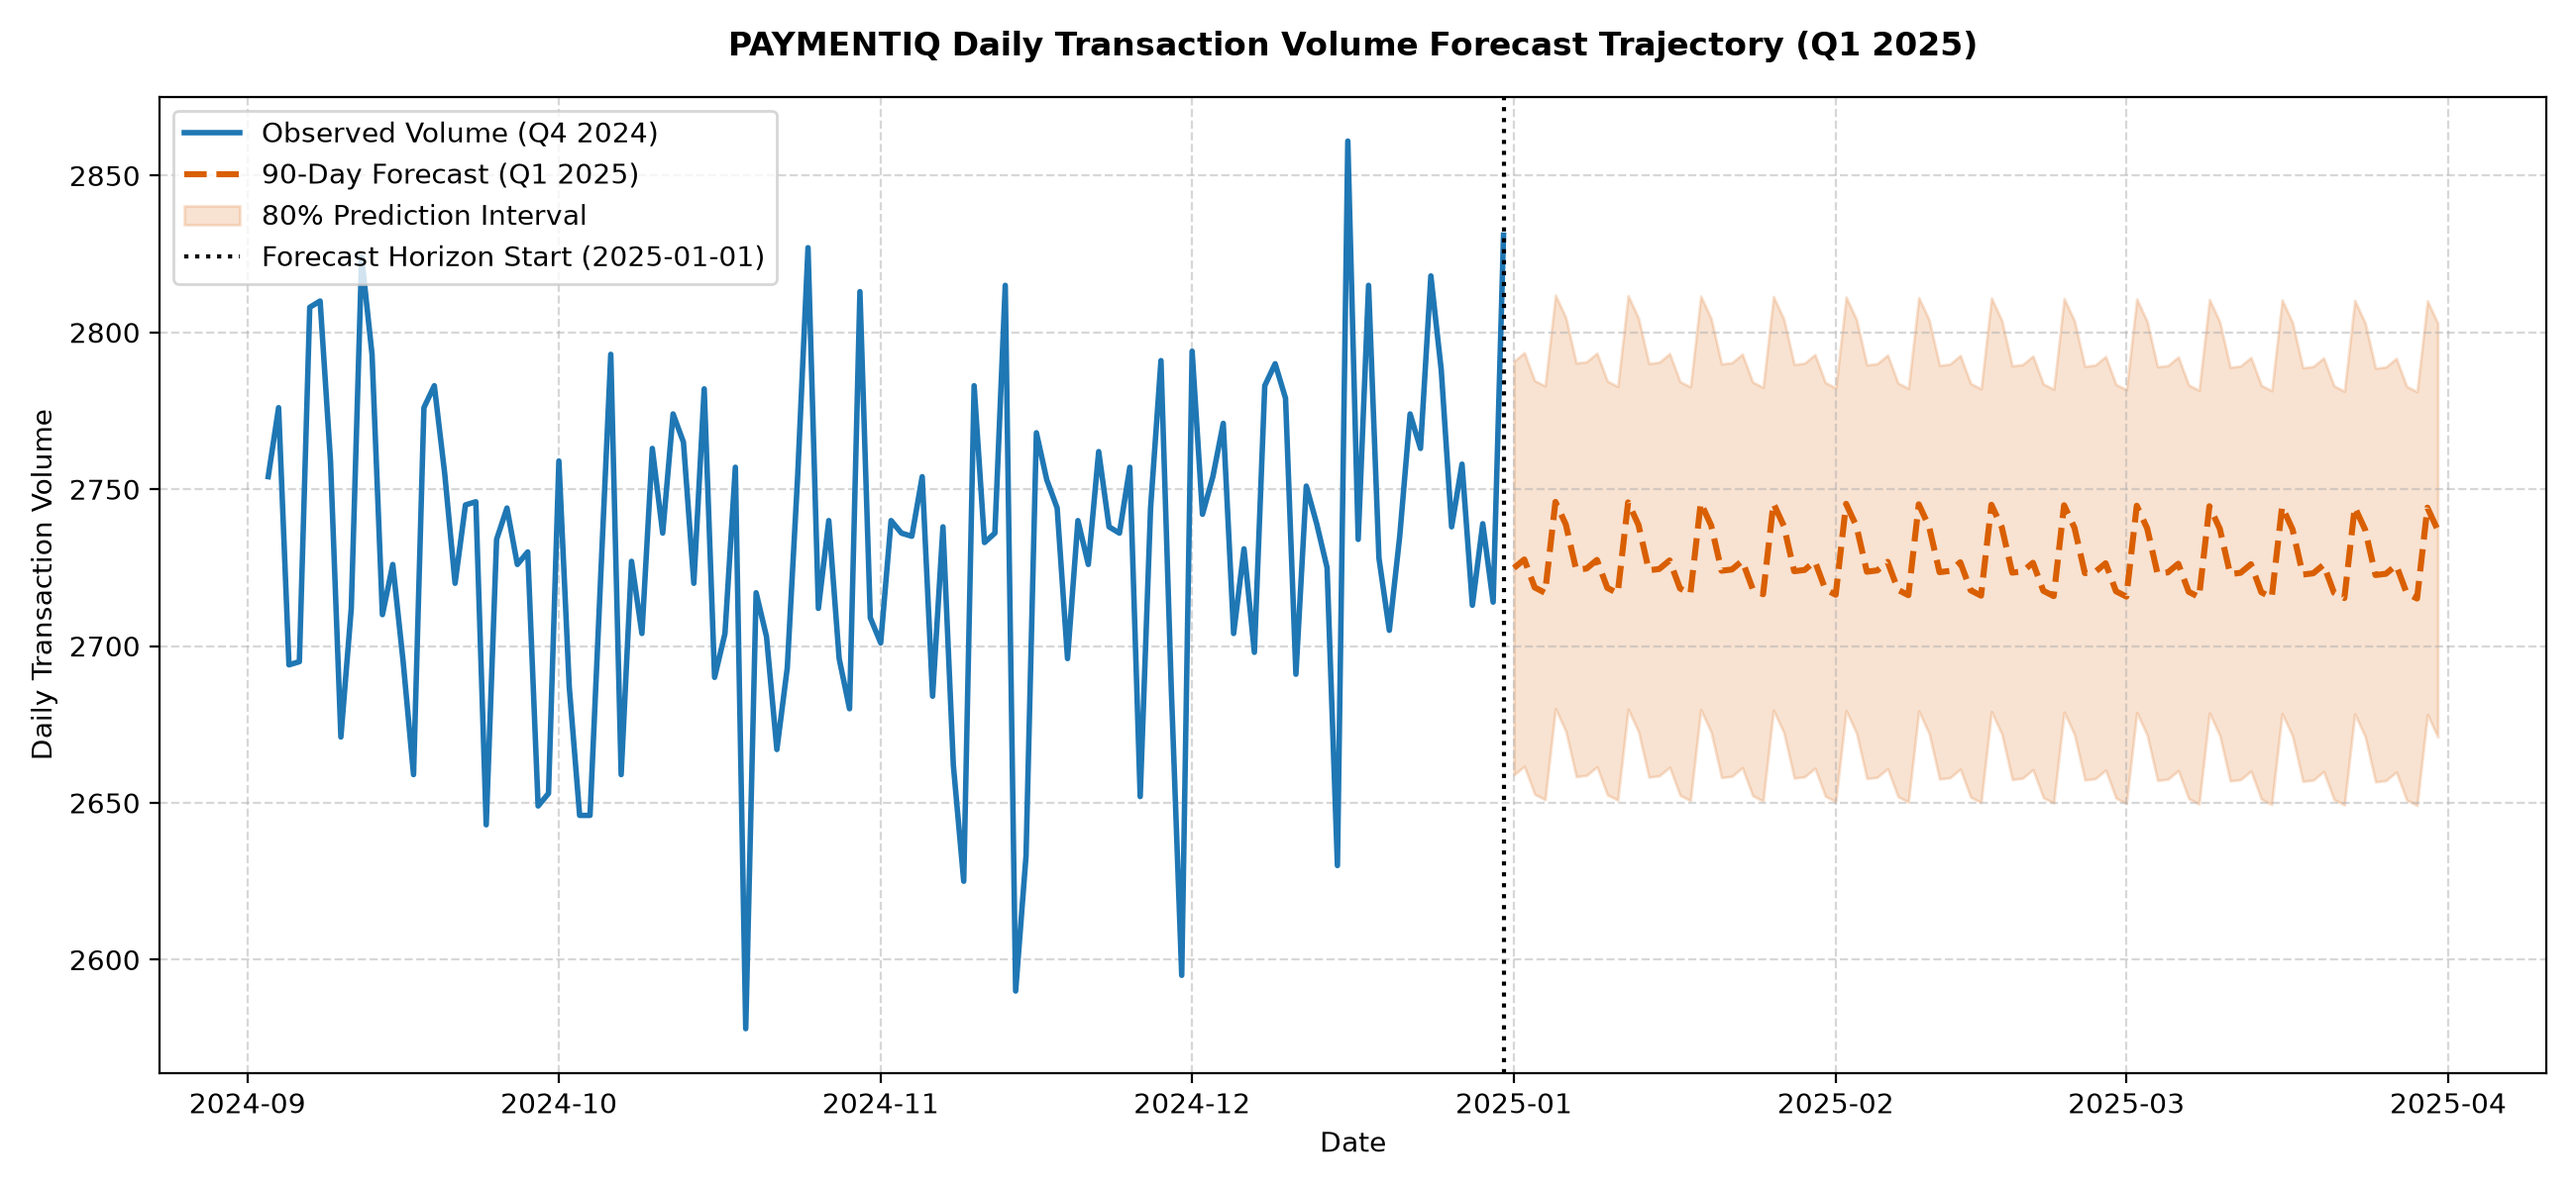
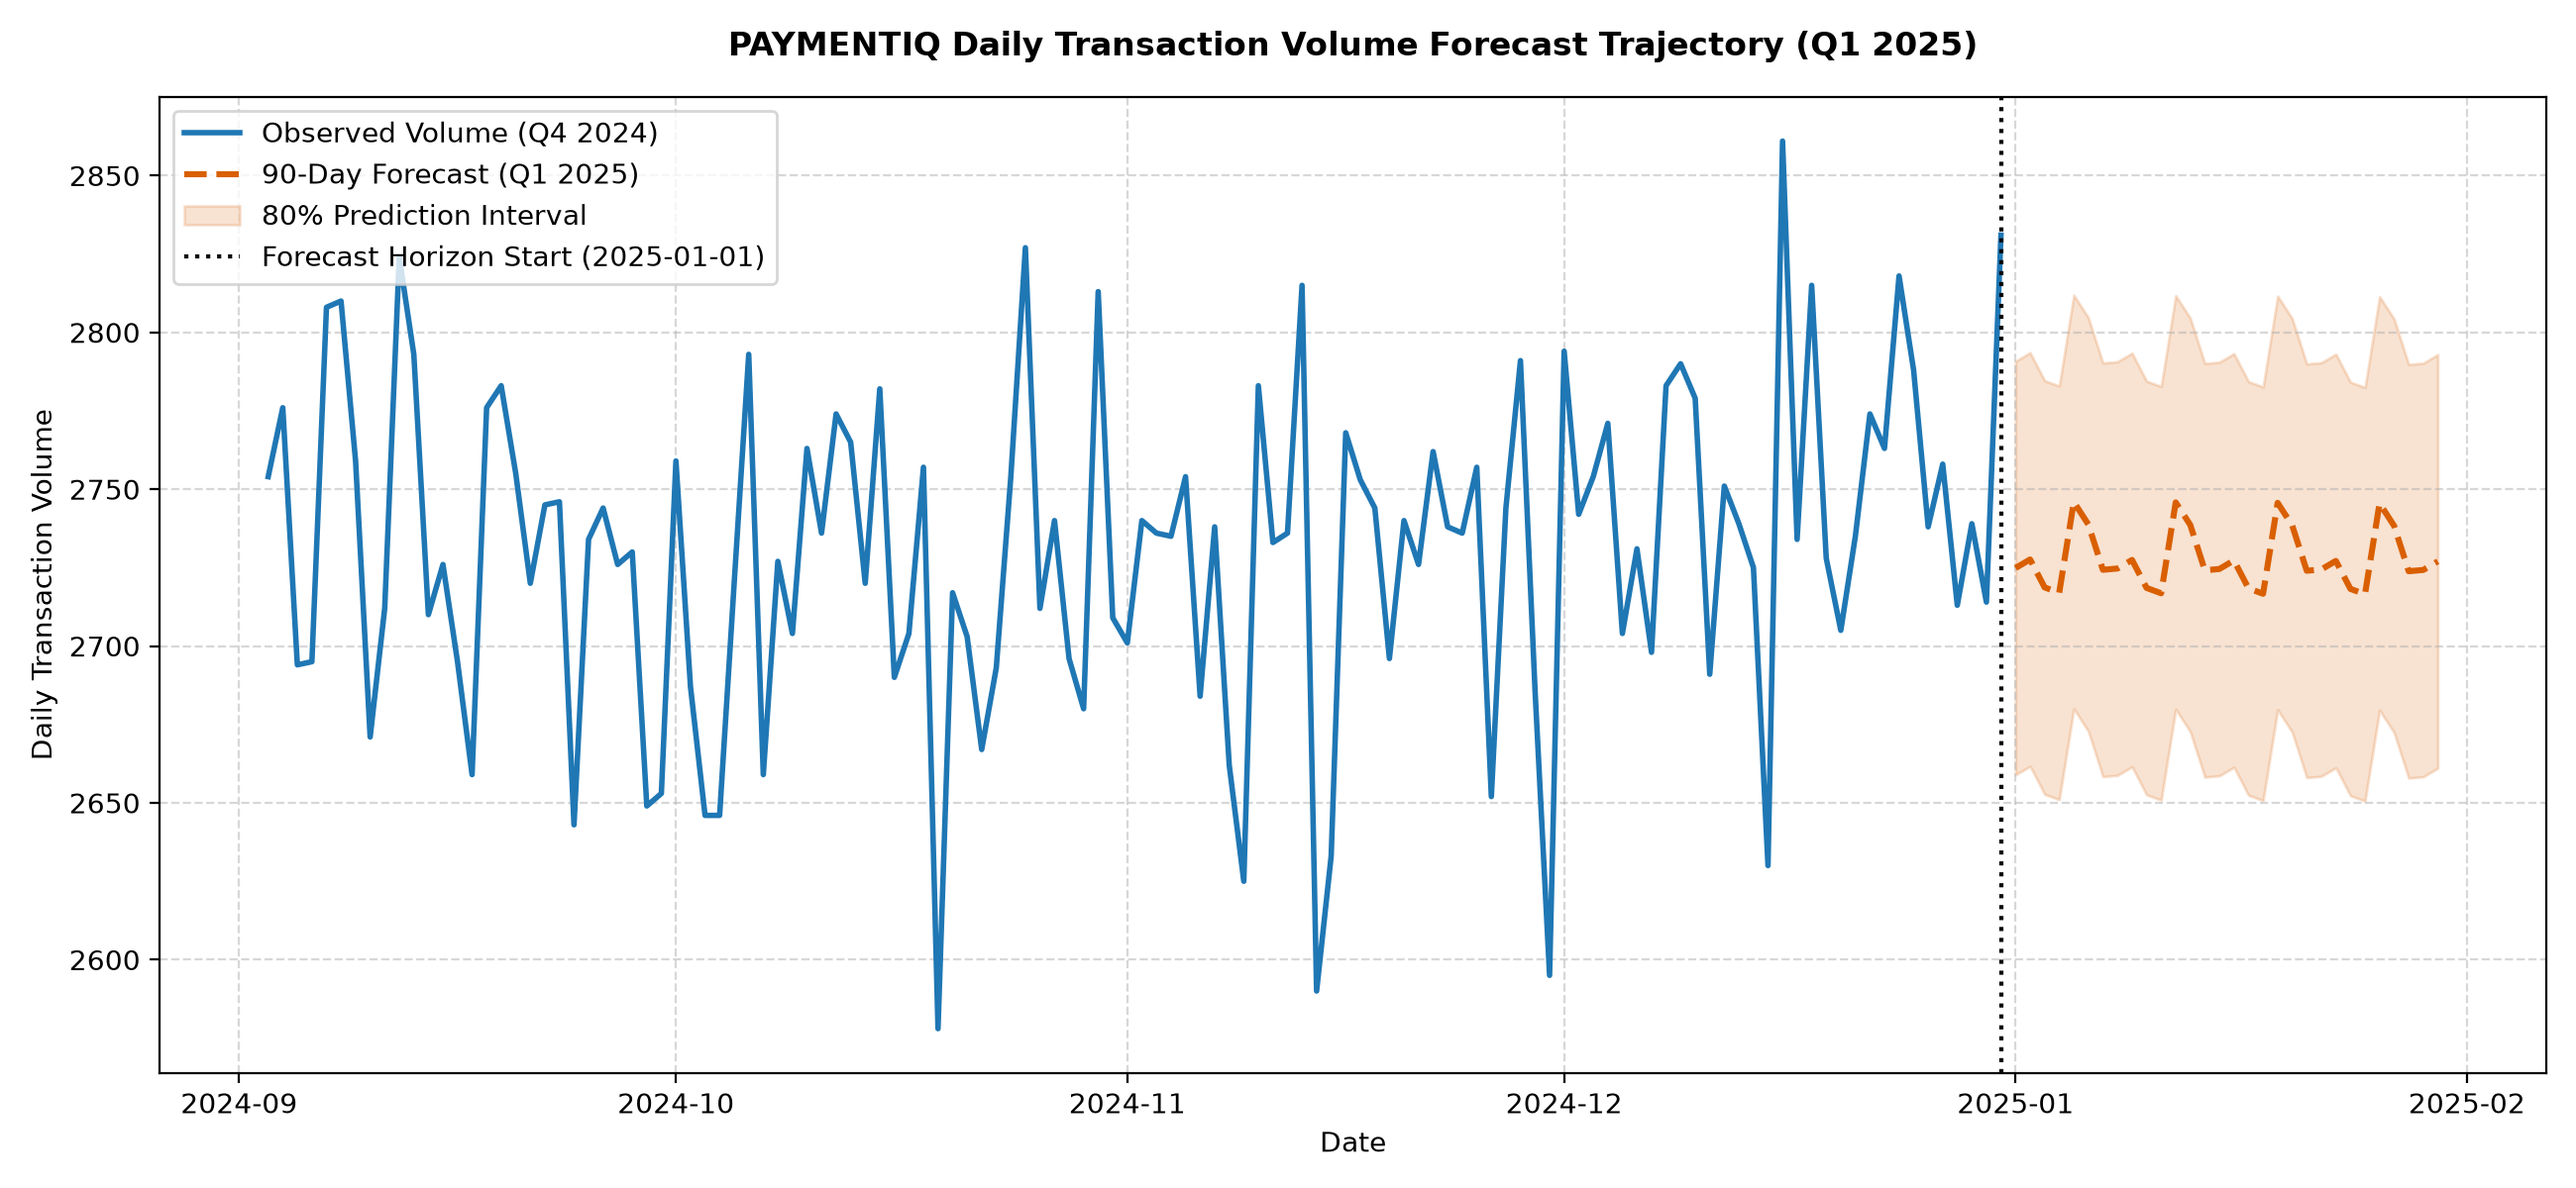
Update forecasting and reconciliation reports from test run

diff --git a/documentation/FORECASTING_REPORT.md b/documentation/FORECASTING_REPORT.md
@@ -24,10 +24,10 @@ This report presents out-of-sample backtest accuracy and forward projections for
 
 ## 3. Q1 2025 Forward Projections Summary
 
-- **Projected Q1 2025 Total Transaction Volume:** **245,457 transactions**
-- **Projected Q1 2025 Settled GTV:** **$29,616,516.47**
-- **Projected Q1 2025 Mean Authorization Rate:** **90.46%**
-- **Average Projected Daily Volume:** `2,727 transactions/day` (80% prediction bounds: `2,661` to `2,793`)
+- **Projected Q1 2025 Total Transaction Volume:** **81,834 transactions**
+- **Projected Q1 2025 Settled GTV:** **$9,893,365.09**
+- **Projected Q1 2025 Mean Authorization Rate:** **90.45%**
+- **Average Projected Daily Volume:** `2,728 transactions/day` (80% prediction bounds: `2,662` to `2,794`)
 
 ---
 

diff --git a/documentation/RECONCILIATION_REPORT.md b/documentation/RECONCILIATION_REPORT.md
@@ -1,6 +1,6 @@
 # PAYMENTIQ | Multi-Layer Cross-Platform Data Reconciliation Report
 
-**Execution Timestamp:** 2026-09-18T23:34:06.606279  
+**Execution Timestamp:** 2026-09-18T23:38:07.222540  
 **Overall Audit Status:** **PASS (0.00% Variance)**  
 **Layers Audited:** 5 End-to-End Pipeline Stages  
 **Allowed Financial Drift:** **0.00%**  
